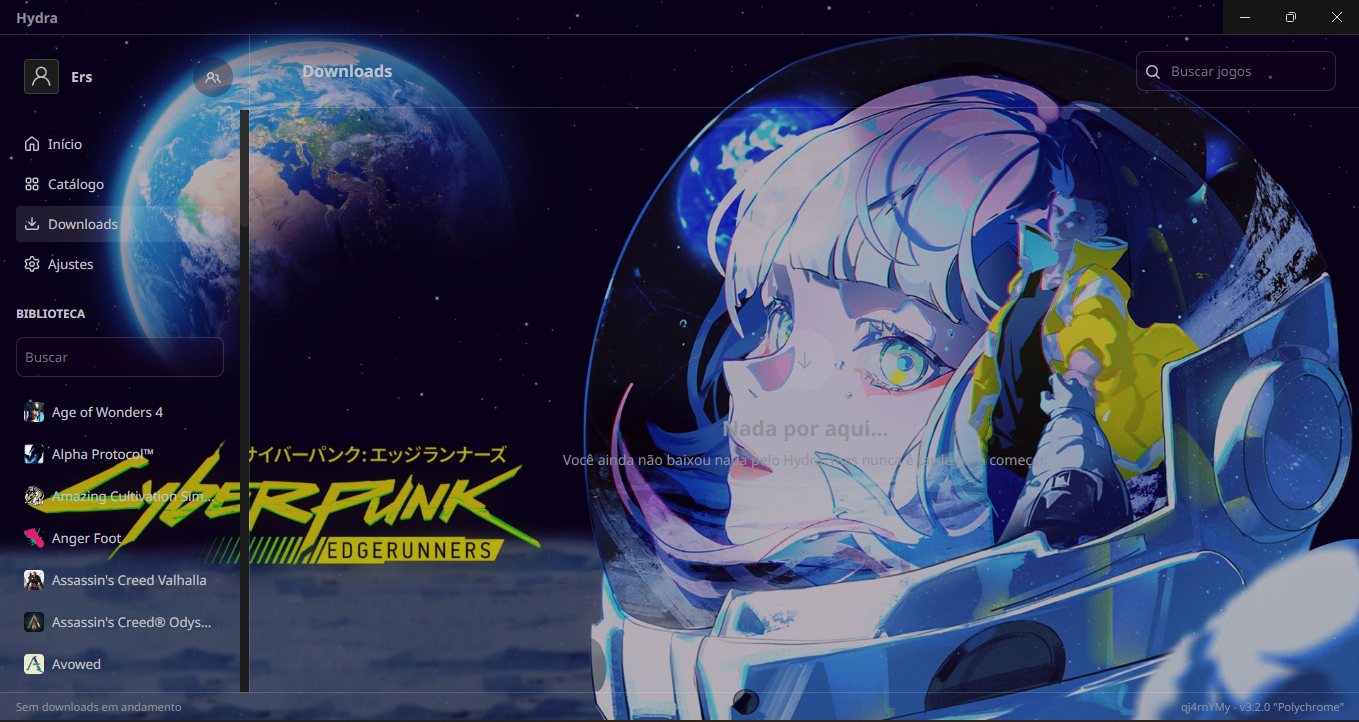
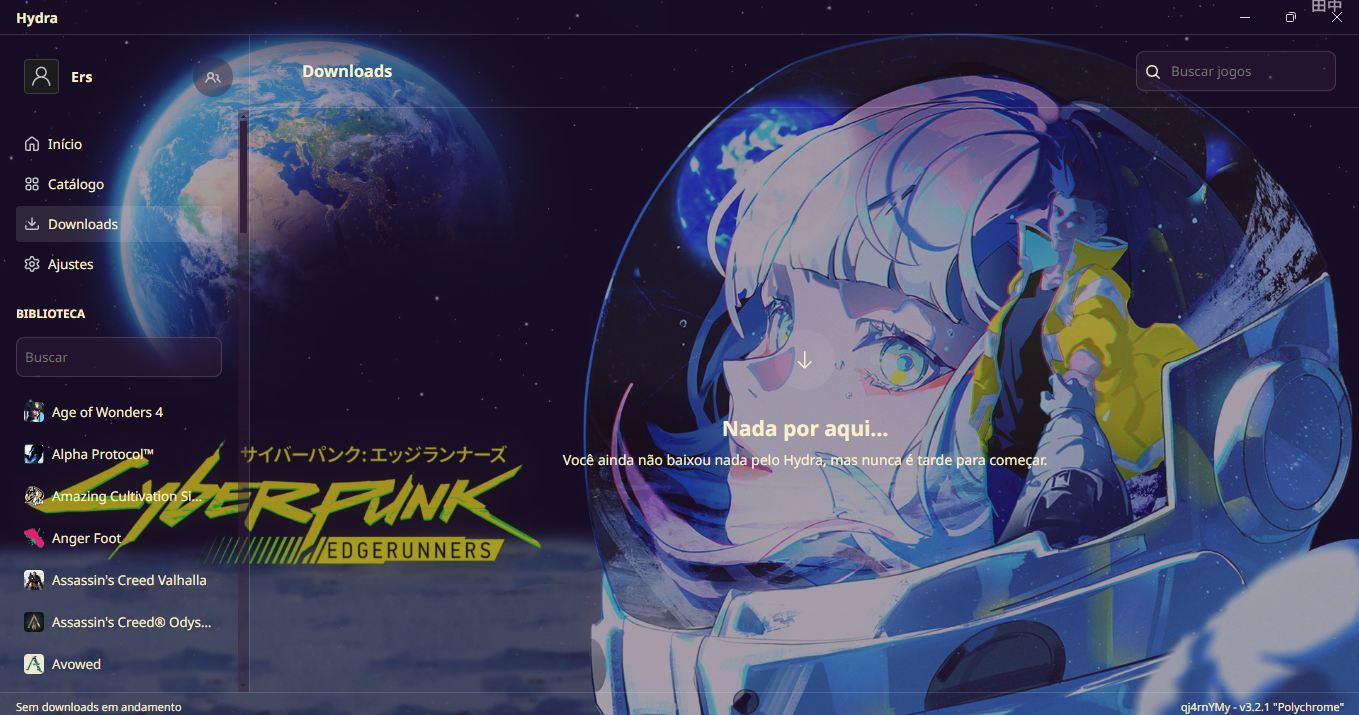
cyberpunk lucy theme improvement

diff --git a/themes/Cyberpunk Edgerunners Lucy-z5ql3pzQ/theme.css b/themes/Cyberpunk Edgerunners Lucy-z5ql3pzQ/theme.css
@@ -1,23 +1,52 @@
 #root {
-    background: url(https://images6.alphacoders.com/135/thumb-1920-1354117.jpeg);
-    background-repeat: no-repeat;
-    background-position: center;
-    background-size: cover;
-  }
-  
-  .title-bar,
-  .sidebar,
-  .container__content,
-  .header,
-  .bottom-panel,
-  .text-field-container__text-field--dark,
-  .settings__content,
-  .header__search,
-  .sidebar-profile__friends-button,
-  .game-item,
-  .catalogue__filters-container,
-  .user-stats__box,
-  .recent-games__box,
-  .friends-box__box {
-    background: #341f3b6e;
-  }
+  background: url(https://images6.alphacoders.com/135/thumb-1920-1354117.jpeg);
+  background-repeat: no-repeat;
+  background-position: center;
+  background-size: cover;
+}
+
+.button--dark,
+.theme-card__actions__left,
+.settings-download-sources__item,
+.title-bar,
+.sidebar,
+.container__content,
+.header,
+.bottom-panel,
+.text-field-container__text-field--dark,
+.header__search,
+.settings__container .settings__content,
+.sidebar-profile__friends-button,
+.game-item,
+.catalogue__filters-container,
+.user-stats__box,
+.recent-games__box,
+.friends-box__box {
+  background: #341f3b6e;
+  scrollbar-color: #341f3b #341f3b6e;
+  scrollbar-width: thin;
+}
+
+.button--outline,
+.theme-card__author__name,
+.theme-card__author,
+.theme-card__header,
+.theme-card__header__title,
+small,
+div,
+.header__title,
+span {
+  color: #FAF0CA;
+}
+
+.button--dark {
+  border: solid 1px rgba(255, 255, 255, 0.15);
+}
+
+.button--dark:hover {
+  background-color: #ffffff1e;
+}
+
+.sidebar__content {
+  scrollbar-width: thin;
+}
